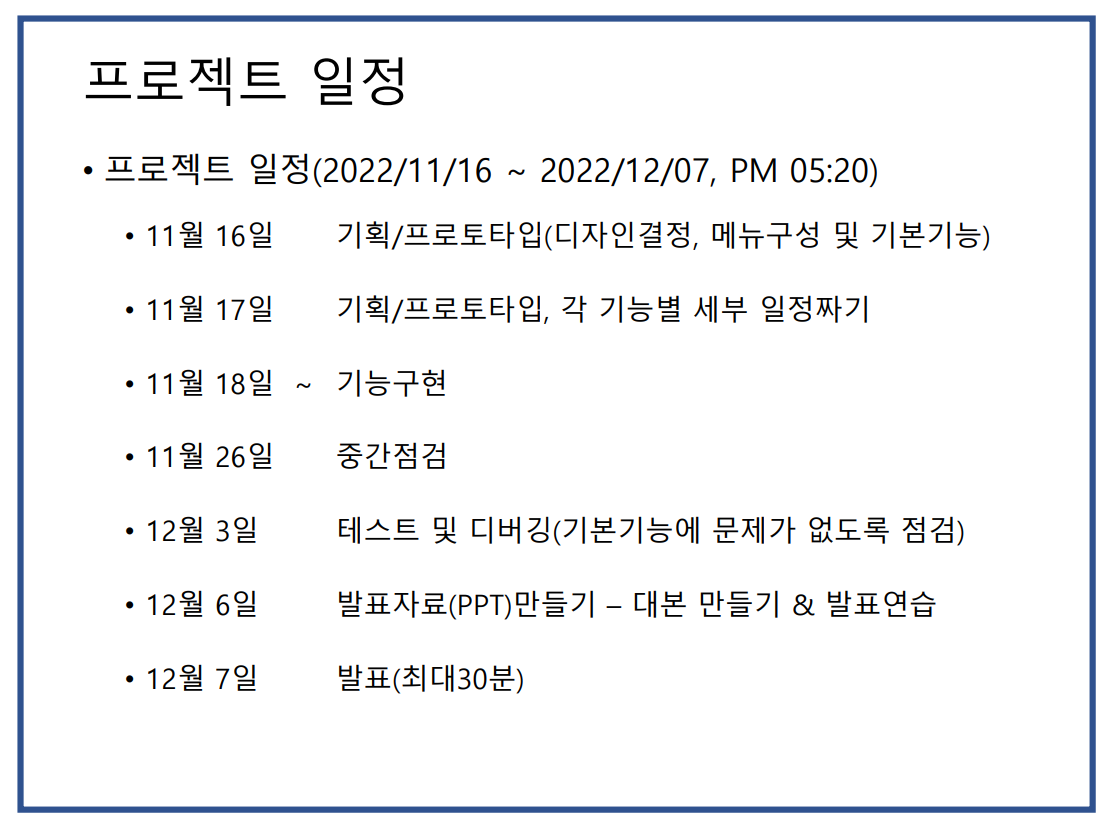
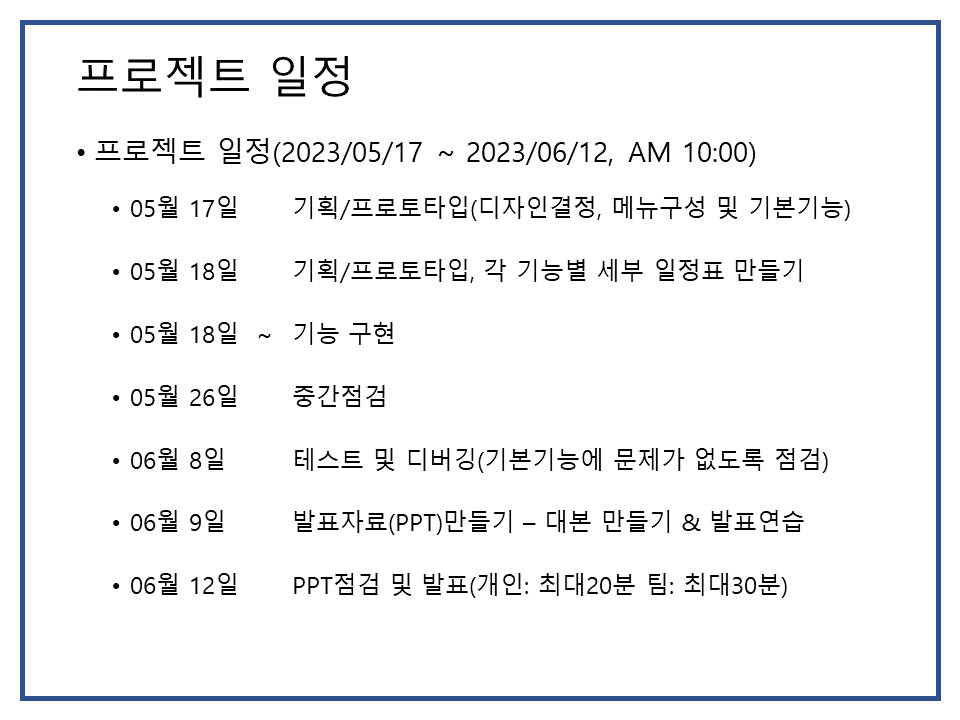
change project schedule

diff --git a/dday.html b/dday.html
@@ -9,7 +9,7 @@
     <script>
         $(function(){
             var today = new Date();
-            var finishDay = new Date("2022-12-07");
+            var finishDay = new Date("2023-06-12");
             var diff = finishDay.getTime()-today.getTime();
             var d_day = Math.ceil(diff/(1000*60*60*24));
             $("#d-day").text(d_day);
